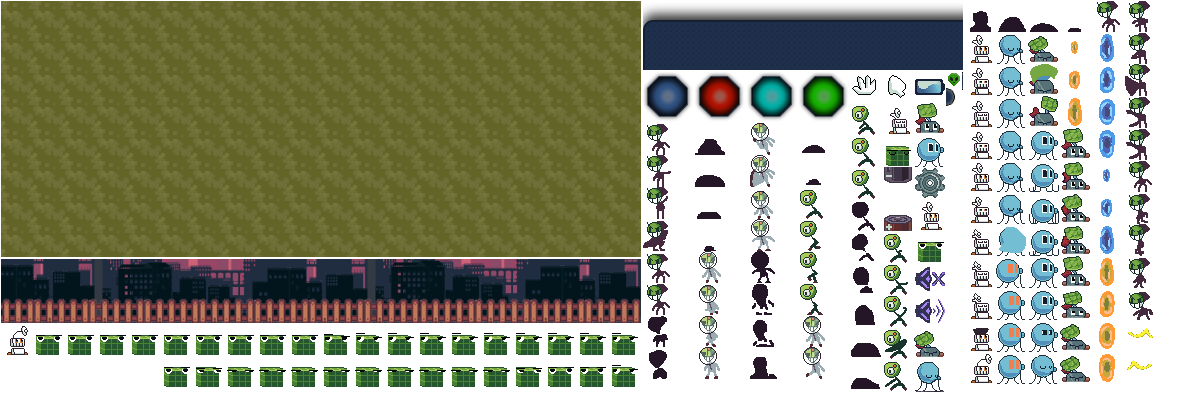
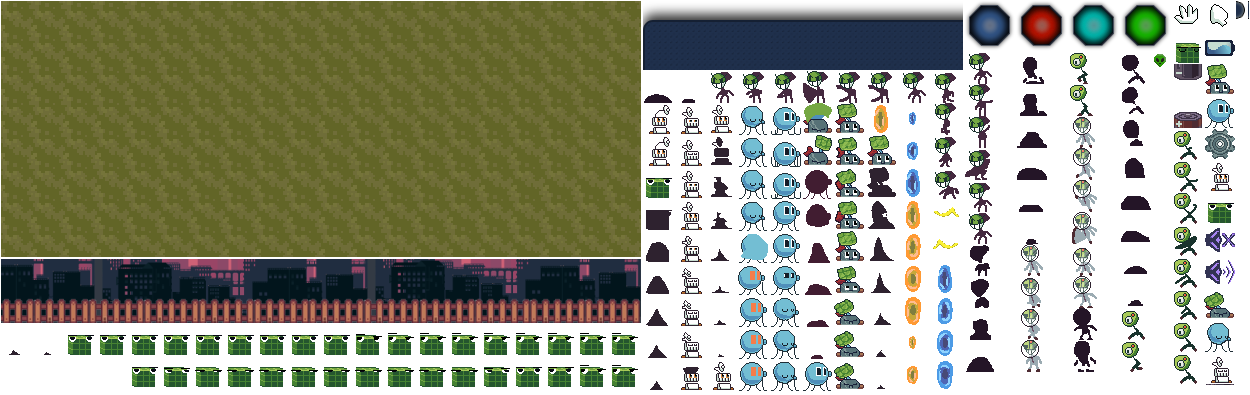
defenders death animations

Changed region(s): [[0.0, 0.0, 1.0, 1.0]]

diff --git a/RvA/src/Game.cpp b/RvA/src/Game.cpp
@@ -266,7 +266,7 @@ void Game::registerDefenderTypes() {
 											.name = "Solar Panel",
 											.spriteEnabled = {sprite("solar_idle"), 0.1f},
 											.spriteDisabled = {sprite("solar_off"), 0.1f},
-											.spriteDying = {sprite("b1_alien_death"), 0.1f, 1}, // TODO add respective dying animation (art not done)
+											.spriteDying = {sprite("solar_death"), 0.1f, 1},
 											.batteryDrain = -5,
 											//.scrapsGain = 5,
 											.maxHP = 100,
@@ -279,7 +279,7 @@ void Game::registerDefenderTypes() {
 										 .spriteEnabled = {sprite("shooter_idle"), 0.1f},
 										 .spriteDisabled = {sprite("shooter_off"), 0.1f},
 										 .spriteShoot = {sprite("shooter_shoot"), 0.1f, 1},
-										 .spriteDying = {sprite("b1_alien_death"), 0.1f, 1}, // TODO add respective dying animation (art not done)
+										 .spriteDying = {sprite("shooter_death"), 0.1f, 1},
 										 .batteryDrain = 5.f,
 										 .firstShootCooldown = 1.5f,
 										 .shootCooldown = 0.1f,
@@ -295,7 +295,7 @@ void Game::registerDefenderTypes() {
 										 .spriteEnabled = {sprite("catapult_idle"), 0.1f},
 										 .spriteDisabled = {sprite("catapult_off"), 0.1f},
 										 .spriteShoot = {sprite("catapult_shoot"), 0.1f, 1},
-										 .spriteDying = {sprite("b1_alien_death"), 0.1f, 1}, // TODO add respective dying animation (art not done)
+										 .spriteDying = {sprite("catapult_death"), 0.1f, 1},
 										 .batteryDrain = 10.f,
 										 .firstShootCooldown = 3.f,
 										 .shootCooldown = 1.f,
@@ -311,7 +311,7 @@ void Game::registerDefenderTypes() {
 										 .spriteEnabled = {sprite("lasertron_idle"), 0.1f},
 										 .spriteDisabled = {sprite("lasertron_off"), 0.1f},
 										 .spriteShoot = {sprite("lasertron_shoot"), 0.1f, 1},
-										 .spriteDying = {sprite("b1_alien_death"), 0.1f, 1},
+										 .spriteDying = {sprite("lasertron_death"), 0.1f, 1},
 										 .batteryDrain = 20.f,
 										 .firstShootCooldown = 3.f,
 										 .shootCooldown = 2.f,
@@ -330,7 +330,7 @@ void Game::registerDefenderTypes() {
 											.name = "Solar Panel",
 											.spriteEnabled = {sprite("solar_idle"), 0.1f},
 											.spriteDisabled = {sprite("solar_off"), 0.1f},
-											.spriteDying = {sprite("b1_alien_death"), 0.1f, 1}, // TODO add respective dying animation (art not done)
+											.spriteDying = {sprite("solar_death"), 0.1f, 1},
 											.batteryDrain = -15,
 											.maxHP = 100,
 											.buildCooldown = 2.f,
@@ -342,7 +342,7 @@ void Game::registerDefenderTypes() {
 										 .spriteEnabled = {sprite("shooter_idle"), 0.1f},
 										 .spriteDisabled = {sprite("shooter_off"), 0.1f},
 										 .spriteShoot = {sprite("shooter_shoot"), 0.1f, 1},
-										 .spriteDying = {sprite("b1_alien_death"), 0.1f, 1}, // TODO add respective dying animation (art not done)
+										 .spriteDying = {sprite("shooter_death"), 0.1f, 1},
 										 .batteryDrain = 5.f,
 										 .firstShootCooldown = 1.5f,
 										 .shootCooldown = 0.2f,
